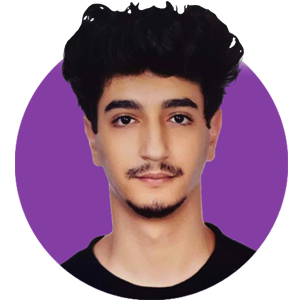
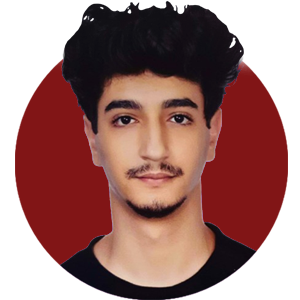
changed colors

Changed region(s): [[0.03, 0.18, 0.39, 0.9], [0.66, 0.21, 0.96, 0.84]]

diff --git a/src/style.css b/src/style.css
@@ -1,56 +1,58 @@
 html {
   --section-background-color: linear-gradient(
     to bottom left,
-    rgba(17, 16, 16, 0.582),
-    rgba(12, 8, 24, 0.904)
+    rgba(15, 15, 15, 0.8),
+    rgba(10, 10, 10, 0.9)
   );
 
   --image-gradient: linear-gradient(
-    to bottom left,
-    rgba(17, 16, 16, 0.678),
-    rgba(12, 10, 22, 0.863)
+    to bottom,
+    rgba(0, 0, 0, 0.7),
+    rgba(20, 20, 20, 0.9)
   );
 
   --imp-text-color: var(--text);
 }
 
-:root{
-  --text : #c770f0;
-  --backgroundloader : #0c0513;
-  --stikcynavbar : #0a0910d2;
-  --navbarshadow: rgba(9, 5, 29, 0.171);
-  --navbaritemunderline : #c95bf5;
-  --navtoggler : #be50f4;
-  --mobilenavbar : #181a27;
-  --navbarlink : white;
-  --homedeftext : whitesmoke;
-  --mainnametext : #cd5ff8;
-  --maintypewritter : #be6adf;
-  --maintypewrittercursor : #b562d6;
-  --homeabouttext : white;
-  --socialhighlight : #87209e;
-  --socialicon : #700c86;
-  --socialiconbg : rgba(255, 255, 255, 0.972);
-  --footer : rgb(10, 4, 22);
-  --footertext : white;
-  --quote : #a588c0;
-  --cardlight : rgba(119, 53, 136, 0.459);
-  --cardtext : white;
-  --cardlighthover: rgba(129, 72, 144, 0.561);
-  --gitbticon : white;
-  --gitbt : #934cce5e;
-  --gitbthover : #a24dd386;
-  --projectdeftext : white;
-  --aboutcardicons : white;
-  --aboutcardborder : rgba(200, 137, 230, 0.637);
-  --aboutcardlight : rgba(89, 4, 168, 0.137);
-  --aboutcardborderhover : rgba(197, 115, 230, 0.883) ;
-  --aboutdeftext : white;
+:root {
+  --text: white;
+  --backgroundloader: black;
+  --stikcynavbar: rgba(20, 20, 20, 0.9);
+  --navbarshadow: rgba(0, 0, 0, 0.2);
+  --navbaritemunderline: #a8d0c6;
+  --navtoggler: white;
+  --mobilenavbar: #121212;
+  --navbarlink: white;
+  --homedeftext: white;
+  --mainnametext: lightgray;
+  --maintypewritter: #a8d0c6;
+  --maintypewrittercursor: #a81c1c;
+  --homeabouttext: white;
+  --socialhighlight: gray;
+  --socialicon: white;
+  --socialiconbg: black;
+  --footer: rgb(10, 10, 10);
+  --footertext: white;
+  --quote: lightgray;
+  --cardlight: rgba(100, 100, 100, 0.2);
+  --cardtext: white;
+  --cardlighthover: rgba(150, 150, 150, 0.3);
+  --gitbticon: white;
+  --gitbt: rgba(50, 50, 50, 0.5);
+  --gitbthover: rgba(80, 80, 80, 0.7);
+  --projectdeftext: white;
+  --aboutcardicons: white;
+  --aboutcardiconshover : #a81c1c;
+  --aboutcardborder: rgba(100, 100, 100, 0.6);
+  --aboutcardlight: rgba(50, 50, 50, 0.2);
+  --aboutcardlighhover : rgba(168, 28, 28, 0.1);
+  --aboutcardborderhover: rgba(168, 28, 28, 0.8);
+  --aboutdeftext: white;
 
-  --scrollbartrack : #2d1950;
-  --scrollbarthumbhover : rgba(222, 130, 235, 0.911);
-  --scrollbarthumb : rgba(178, 121, 216, 0.959);
- }
+  --scrollbartrack: #333;
+  --scrollbarthumbhover: #666;
+  --scrollbarthumb: #555;
+}
 
 .purple {
   color: var(--imp-text-color) !important;
@@ -547,7 +549,7 @@ button:focus {
 
 .card-img-top {
   padding: 20px !important;
-  opacity: 0.8 !important;
+  opacity: 0.9 !important;
   border-radius: 10px !important;
 }
 
@@ -616,6 +618,10 @@ button:focus {
   transform: scale(1.05) !important;
   overflow: hidden !important;
   border: 2.2px solid var(--aboutcardborderhover) !important;
+  box-shadow: 4px 5px 4px 3px var(--aboutcardlighhover) !important;
+
+  color : var(--aboutcardiconshover)
+
 }
 .tech-icon-images {
   padding: 20px !important;
@@ -785,7 +791,7 @@ button:focus {
 
 
 .copy-message {
-  color: #c95bf5;
+  color: #a81c1c;
   margin-top: 5px;
   font-size: 1.2em;
   animation: fadeInOut 2s ease-in-out; /* Animation */

diff --git a/src/index.css b/src/index.css
@@ -4,8 +4,8 @@
 
 body {
   margin: 0;
-  font-family: "Raleway", 'sans-serif' !important;
+  font-family: "Raleway", sans-serif !important;
   -webkit-font-smoothing: antialiased;
   -moz-osx-font-smoothing: grayscale;
-  background-image: linear-gradient(to left, rgb(27 20 41), rgb(20 15 35));
+  background-image: linear-gradient(to bottom, #191516, #191516);
 }

diff --git a/src/components/Home/Home.js b/src/components/Home/Home.js
@@ -1,6 +1,6 @@
 import React from "react";
 import { Container, Row, Col } from "react-bootstrap";
-import homeLogo from "../../Assets/home-main.svg";
+import homeLogo from "../../Assets/home-main.png";
 import Particle from "../Particle";
 import HomeAbout from "./HomeAbout";
 import Type from "./Type";
